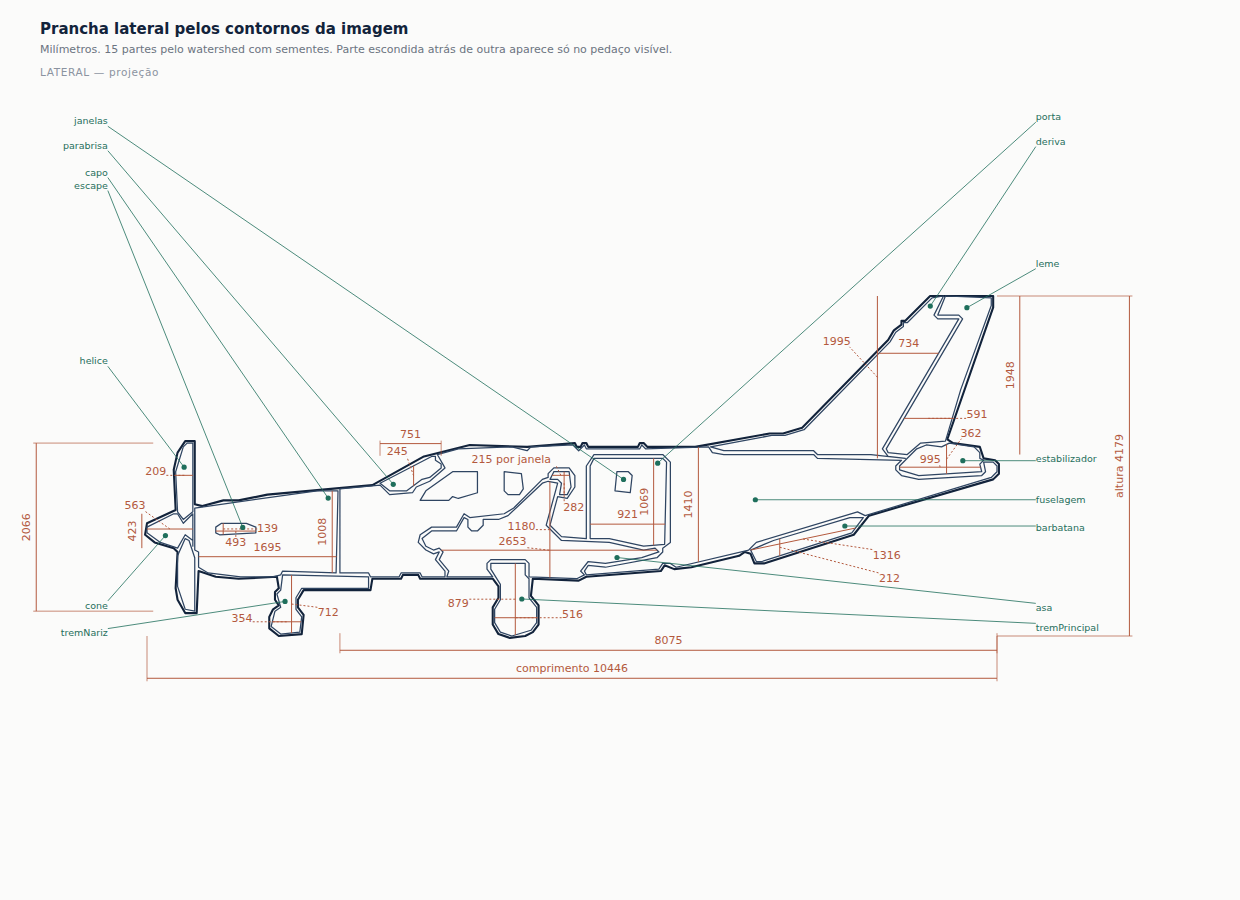
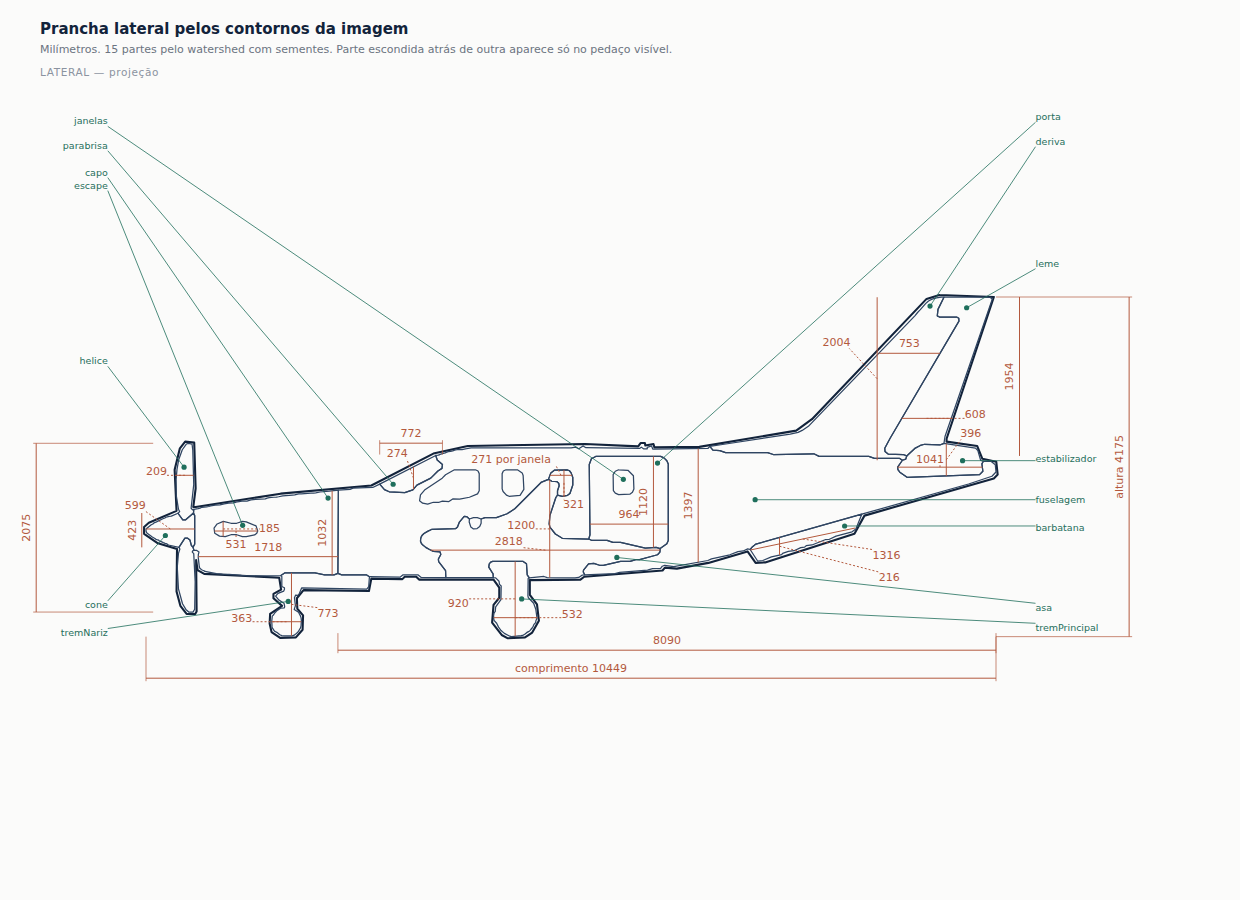
Prancha lateral do avião redesenhada sobre o contorno abaixo do pixel
Claude-Session: https://claude.ai/code/session_015i1y8CrgTgEfwGG2HEX8g8

diff --git a/docs/mecanifica/banco-de-provas/aviao-2026-10-11/referencias/lateral.prancha.pacote/roteiro.md b/docs/mecanifica/banco-de-provas/aviao-2026-10-11/referencias/lateral.prancha.pacote/roteiro.md
@@ -9,32 +9,32 @@ Abra o alvo (/home/user/nos-mecanifica/docs/mecanifica/banco-de-provas/aviao-202
 ## Etapa 2 — janelas
 
 - cotas esperadas: comprimento (medida aqui) e altura (medida aqui). Cobre só estas duas; cota em falta é `cota` com sentido `faltando`.
-- comprimento: cota 215 por janela, com o rótulo "por janela": o número vale só para o que o rótulo diz, e não para a parte inteira. A linha atravessa a seção que o modelador precisa, dentro de janelas?
-- altura: cota 282. A linha mede janelas de ponta a ponta na vertical, sem pegar parte vizinha?
+- comprimento: cota 271 por janela, com o rótulo "por janela": o número vale só para o que o rótulo diz, e não para a parte inteira. A linha atravessa a seção que o modelador precisa, dentro de janelas?
+- altura: cota 321. A linha mede janelas de ponta a ponta na vertical, sem pegar parte vizinha?
 - nome: "janelas" fica na coluna da esquerda. A chamada termina dentro de janelas, e não numa vizinha?
 - linhas livres: a chamada e as cotas de janelas não cruzam outra linha nem passam sobre número ou nome?
 
 ## Etapa 3 — parabrisa
 
 - cotas esperadas: comprimento (medida aqui) e altura (medida aqui). Cobre só estas duas; cota em falta é `cota` com sentido `faltando`.
-- comprimento: cota 751. A linha atravessa a seção que o modelador precisa, dentro de parabrisa?
-- altura: cota 245. A linha mede parabrisa de ponta a ponta na vertical, sem pegar parte vizinha?
+- comprimento: cota 772. A linha atravessa a seção que o modelador precisa, dentro de parabrisa?
+- altura: cota 274. A linha mede parabrisa de ponta a ponta na vertical, sem pegar parte vizinha?
 - nome: "parabrisa" fica na coluna da esquerda. A chamada termina dentro de parabrisa, e não numa vizinha?
 - linhas livres: a chamada e as cotas de parabrisa não cruzam outra linha nem passam sobre número ou nome?
 
 ## Etapa 4 — capo
 
 - cotas esperadas: comprimento (medida aqui) e altura (medida aqui). Cobre só estas duas; cota em falta é `cota` com sentido `faltando`.
-- comprimento: cota 1695. A linha atravessa a seção que o modelador precisa, dentro de capo?
-- altura: cota 1008. A linha mede capo de ponta a ponta na vertical, sem pegar parte vizinha?
+- comprimento: cota 1718. A linha atravessa a seção que o modelador precisa, dentro de capo?
+- altura: cota 1032. A linha mede capo de ponta a ponta na vertical, sem pegar parte vizinha?
 - nome: "capo" fica na coluna da esquerda. A chamada termina dentro de capo, e não numa vizinha?
 - linhas livres: a chamada e as cotas de capo não cruzam outra linha nem passam sobre número ou nome?
 
 ## Etapa 5 — escape
 
 - cotas esperadas: comprimento (medida aqui) e altura (medida aqui). Cobre só estas duas; cota em falta é `cota` com sentido `faltando`.
-- comprimento: cota 493. A linha atravessa a seção que o modelador precisa, dentro de escape?
-- altura: cota 139. A linha mede escape de ponta a ponta na vertical, sem pegar parte vizinha?
+- comprimento: cota 531. A linha atravessa a seção que o modelador precisa, dentro de escape?
+- altura: cota 185. A linha mede escape de ponta a ponta na vertical, sem pegar parte vizinha?
 - nome: "escape" fica na coluna da esquerda. A chamada termina dentro de escape, e não numa vizinha?
 - linhas livres: a chamada e as cotas de escape não cruzam outra linha nem passam sobre número ou nome?
 
@@ -42,14 +42,14 @@ Abra o alvo (/home/user/nos-mecanifica/docs/mecanifica/banco-de-provas/aviao-202
 
 - cotas esperadas: comprimento (medida aqui) e altura (medida aqui). Cobre só estas duas; cota em falta é `cota` com sentido `faltando`.
 - comprimento: cota 209. A linha atravessa a seção que o modelador precisa, dentro de helice?
-- altura: cota 2066. A linha mede helice de ponta a ponta na vertical, sem pegar parte vizinha?
+- altura: cota 2075. A linha mede helice de ponta a ponta na vertical, sem pegar parte vizinha?
 - nome: "helice" fica na coluna da esquerda. A chamada termina dentro de helice, e não numa vizinha?
 - linhas livres: a chamada e as cotas de helice não cruzam outra linha nem passam sobre número ou nome?
 
 ## Etapa 7 — cone
 
 - cotas esperadas: comprimento (medida aqui) e altura (medida aqui). Cobre só estas duas; cota em falta é `cota` com sentido `faltando`.
-- comprimento: cota 563. A linha atravessa a seção que o modelador precisa, dentro de cone?
+- comprimento: cota 599. A linha atravessa a seção que o modelador precisa, dentro de cone?
 - altura: cota 423. A linha mede cone de ponta a ponta na vertical, sem pegar parte vizinha?
 - nome: "cone" fica na coluna da esquerda. A chamada termina dentro de cone, e não numa vizinha?
 - linhas livres: a chamada e as cotas de cone não cruzam outra linha nem passam sobre número ou nome?
@@ -57,48 +57,48 @@ Abra o alvo (/home/user/nos-mecanifica/docs/mecanifica/banco-de-provas/aviao-202
 ## Etapa 8 — tremNariz
 
 - cotas esperadas: comprimento (medida aqui) e altura (medida aqui). Cobre só estas duas; cota em falta é `cota` com sentido `faltando`.
-- comprimento: cota 354. A linha atravessa a seção que o modelador precisa, dentro de tremNariz?
-- altura: cota 712. A linha mede tremNariz de ponta a ponta na vertical, sem pegar parte vizinha?
+- comprimento: cota 363. A linha atravessa a seção que o modelador precisa, dentro de tremNariz?
+- altura: cota 773. A linha mede tremNariz de ponta a ponta na vertical, sem pegar parte vizinha?
 - nome: "tremNariz" fica na coluna da esquerda. A chamada termina dentro de tremNariz, e não numa vizinha?
 - linhas livres: a chamada e as cotas de tremNariz não cruzam outra linha nem passam sobre número ou nome?
 
 ## Etapa 9 — porta
 
 - cotas esperadas: comprimento (medida aqui) e altura (medida aqui). Cobre só estas duas; cota em falta é `cota` com sentido `faltando`.
-- comprimento: cota 921. A linha atravessa a seção que o modelador precisa, dentro de porta?
-- altura: cota 1069. A linha mede porta de ponta a ponta na vertical, sem pegar parte vizinha?
+- comprimento: cota 964. A linha atravessa a seção que o modelador precisa, dentro de porta?
+- altura: cota 1120. A linha mede porta de ponta a ponta na vertical, sem pegar parte vizinha?
 - nome: "porta" fica na coluna da direita. A chamada termina dentro de porta, e não numa vizinha?
 - linhas livres: a chamada e as cotas de porta não cruzam outra linha nem passam sobre número ou nome?
 
 ## Etapa 10 — deriva
 
 - cotas esperadas: comprimento (medida aqui) e altura (medida aqui). Cobre só estas duas; cota em falta é `cota` com sentido `faltando`.
-- comprimento: cota 734. A linha atravessa a seção que o modelador precisa, dentro de deriva?
-- altura: cota 1995. A linha mede deriva de ponta a ponta na vertical, sem pegar parte vizinha?
+- comprimento: cota 753. A linha atravessa a seção que o modelador precisa, dentro de deriva?
+- altura: cota 2004. A linha mede deriva de ponta a ponta na vertical, sem pegar parte vizinha?
 - nome: "deriva" fica na coluna da direita. A chamada termina dentro de deriva, e não numa vizinha?
 - linhas livres: a chamada e as cotas de deriva não cruzam outra linha nem passam sobre número ou nome?
 
 ## Etapa 11 — leme
 
 - cotas esperadas: comprimento (medida aqui) e altura (medida aqui). Cobre só estas duas; cota em falta é `cota` com sentido `faltando`.
-- comprimento: cota 591. A linha atravessa a seção que o modelador precisa, dentro de leme?
-- altura: cota 1948. A linha mede leme de ponta a ponta na vertical, sem pegar parte vizinha?
+- comprimento: cota 608. A linha atravessa a seção que o modelador precisa, dentro de leme?
+- altura: cota 1954. A linha mede leme de ponta a ponta na vertical, sem pegar parte vizinha?
 - nome: "leme" fica na coluna da direita. A chamada termina dentro de leme, e não numa vizinha?
 - linhas livres: a chamada e as cotas de leme não cruzam outra linha nem passam sobre número ou nome?
 
 ## Etapa 12 — estabilizador
 
 - cotas esperadas: comprimento (medida aqui) e altura (medida aqui). Cobre só estas duas; cota em falta é `cota` com sentido `faltando`.
-- comprimento: cota 995. A linha atravessa a seção que o modelador precisa, dentro de estabilizador?
-- altura: cota 362. A linha mede estabilizador de ponta a ponta na vertical, sem pegar parte vizinha?
+- comprimento: cota 1041. A linha atravessa a seção que o modelador precisa, dentro de estabilizador?
+- altura: cota 396. A linha mede estabilizador de ponta a ponta na vertical, sem pegar parte vizinha?
 - nome: "estabilizador" fica na coluna da direita. A chamada termina dentro de estabilizador, e não numa vizinha?
 - linhas livres: a chamada e as cotas de estabilizador não cruzam outra linha nem passam sobre número ou nome?
 
 ## Etapa 13 — fuselagem
 
 - cotas esperadas: comprimento (medida aqui) e altura (medida aqui). Cobre só estas duas; cota em falta é `cota` com sentido `faltando`.
-- comprimento: cota 8075. A linha atravessa a seção que o modelador precisa, dentro de fuselagem?
-- altura: cota 1410. A linha mede fuselagem de ponta a ponta na vertical, sem pegar parte vizinha?
+- comprimento: cota 8090. A linha atravessa a seção que o modelador precisa, dentro de fuselagem?
+- altura: cota 1397. A linha mede fuselagem de ponta a ponta na vertical, sem pegar parte vizinha?
 - nome: "fuselagem" fica na coluna da direita. A chamada termina dentro de fuselagem, e não numa vizinha?
 - linhas livres: a chamada e as cotas de fuselagem não cruzam outra linha nem passam sobre número ou nome?
 
@@ -106,23 +106,23 @@ Abra o alvo (/home/user/nos-mecanifica/docs/mecanifica/banco-de-provas/aviao-202
 
 - cotas esperadas: comprimento (medida aqui) e altura (medida aqui). Cobre só estas duas; cota em falta é `cota` com sentido `faltando`.
 - comprimento: cota 1316. A linha atravessa a seção que o modelador precisa, dentro de barbatana?
-- altura: cota 212. A linha mede barbatana de ponta a ponta na vertical, sem pegar parte vizinha?
+- altura: cota 216. A linha mede barbatana de ponta a ponta na vertical, sem pegar parte vizinha?
 - nome: "barbatana" fica na coluna da direita. A chamada termina dentro de barbatana, e não numa vizinha?
 - linhas livres: a chamada e as cotas de barbatana não cruzam outra linha nem passam sobre número ou nome?
 
 ## Etapa 15 — asa
 
 - cotas esperadas: comprimento (medida aqui) e altura (medida aqui). Cobre só estas duas; cota em falta é `cota` com sentido `faltando`.
-- comprimento: cota 2653. A linha atravessa a seção que o modelador precisa, dentro de asa?
-- altura: cota 1180. A linha mede asa de ponta a ponta na vertical, sem pegar parte vizinha?
+- comprimento: cota 2818. A linha atravessa a seção que o modelador precisa, dentro de asa?
+- altura: cota 1200. A linha mede asa de ponta a ponta na vertical, sem pegar parte vizinha?
 - nome: "asa" fica na coluna da direita. A chamada termina dentro de asa, e não numa vizinha?
 - linhas livres: a chamada e as cotas de asa não cruzam outra linha nem passam sobre número ou nome?
 
 ## Etapa 16 — tremPrincipal
 
 - cotas esperadas: comprimento (medida aqui) e altura (medida aqui). Cobre só estas duas; cota em falta é `cota` com sentido `faltando`.
-- comprimento: cota 516. A linha atravessa a seção que o modelador precisa, dentro de tremPrincipal?
-- altura: cota 879. A linha mede tremPrincipal de ponta a ponta na vertical, sem pegar parte vizinha?
+- comprimento: cota 532. A linha atravessa a seção que o modelador precisa, dentro de tremPrincipal?
+- altura: cota 920. A linha mede tremPrincipal de ponta a ponta na vertical, sem pegar parte vizinha?
 - nome: "tremPrincipal" fica na coluna da direita. A chamada termina dentro de tremPrincipal, e não numa vizinha?
 - linhas livres: a chamada e as cotas de tremPrincipal não cruzam outra linha nem passam sobre número ou nome?
 
